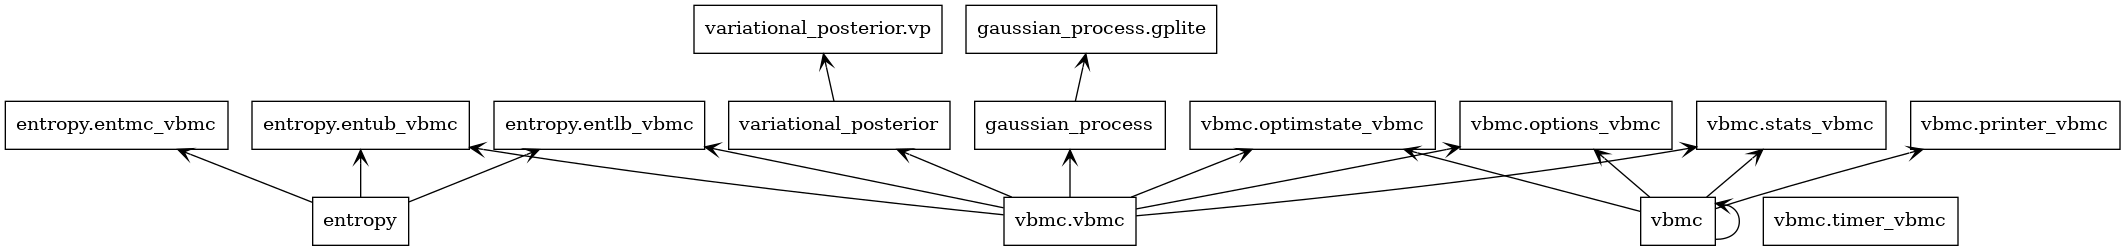
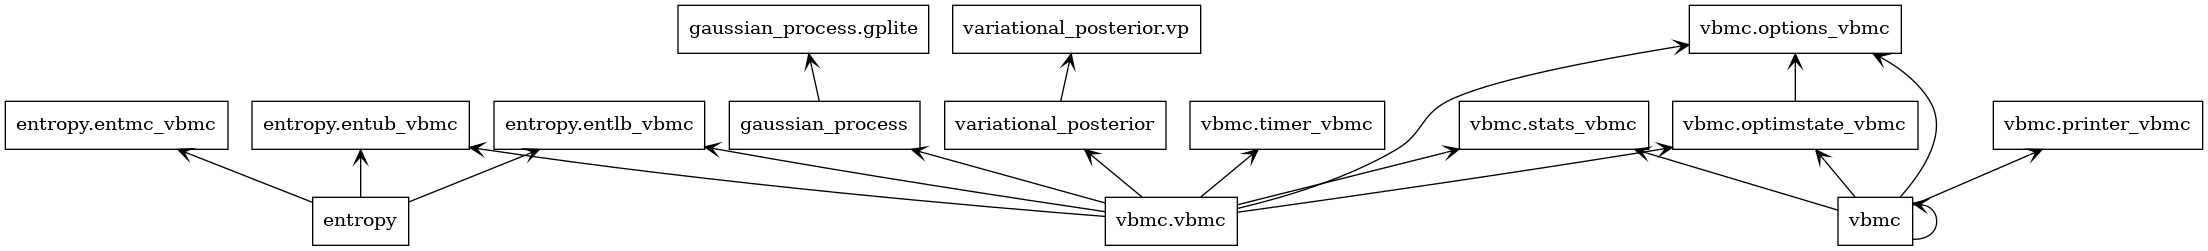
feat: initilize optimstate

diff --git a/initialCodePort/vbmc/options_vbmc.py b/initialCodePort/vbmc/options_vbmc.py
@@ -12,7 +12,7 @@ class Options_VBMC(object):
     Plot                    = None #'off         % Plot marginals of variational posterior at each iteration';
     MaxIter                 = None #'50*(2+nvars)% Max number of iterations';
     MaxFunEvals             = None #50*(2+nvars) % Max number of target fcn evals';
-    FunEvalsPerIter         = None #5            % Number of target fcn evals per iteration';
+    FunEvalsPerIter         = 5    #5            % Number of target fcn evals per iteration';
     TolStableCount          = None #60           % Required stable fcn evals for termination';
     RetryMaxFunEvals        = None #0            % Max number of target fcn evals on retry (0 = no retry)';
     MinFinalComponents      = None #50           % Number of variational components to refine posterior at termination';
@@ -30,7 +30,7 @@ class Options_VBMC(object):
     FunEvalStart            = None #max(D,10)    % Number of initial target fcn evals';
     SGDStepSize             = None #0.005        % Base step size for stochastic gradient descent';
     SkipActiveSamplingAfterWarmup  = None #no    % Skip active sampling the first iteration after warmup';
-    RankCriterion           = None #yes          % Use ranking criterion to pick best non-converged solution';
+    RankCriterion           = True #yes          % Use ranking criterion to pick best non-converged solution';
     TolStableEntropyIters   = None #6            % Required stable iterations to switch entropy approximation';
     VariableMeans           = None #yes          % Use variable component means for variational posterior';
     VariableWeights         = None #yes          % Use variable mixture weight for variational posterior';
@@ -43,7 +43,7 @@ class Options_VBMC(object):
     ProposalFcn             = None #[]           % Weighted proposal fcn for uncertainty search';
     NonlinearScaling   = None #on                % Automatic nonlinear rescaling of variables';
     SearchAcqFcn       = None #@acqf_vbmc        % Fast search acquisition fcn(s)';
-    NSsearch           = None #2^13              % Samples for fast acquisition fcn eval per new point';
+    NSsearch           = 2**13 #2^13              % Samples for fast acquisition fcn eval per new point';
     NSent              = None #@(K) 100*K.^(2/3) % Total samples for Monte Carlo approx. of the entropy';
     NSentFast          = None #0                 % Total samples for preliminary Monte Carlo approx. of the entropy';
     NSentFine          = None #@(K) 2^12*K       % Total samples for refined Monte Carlo approx. of the entropy';
@@ -54,8 +54,8 @@ class Options_VBMC(object):
     NSentFastActive    = None #0                 % Total samples for preliminary Monte Carlo approx. of the entropy (active sampling)';
     NSentFineActive    = None #@(K) 200*K        % Total samples for refined Monte Carlo approx. of the entropy (active sampling)';
     NSelbo             = None #@(K) 50*K         % Samples for fast approximation of the ELBO';
-    NSelboIncr         = None #0.1               % Multiplier to samples for fast approx. of ELBO for incremental iterations';
-    ElboStarts         = None #2                 % Starting points to refine optimization of the ELBO';
+    NSelboIncr         = 0.1  #0.1               % Multiplier to samples for fast approx. of ELBO for incremental iterations';
+    ElboStarts         = 2    #2                 % Starting points to refine optimization of the ELBO';
     NSgpMax            = None #80                % Max GP hyperparameter samples (decreases with training points)';
     NSgpMaxWarmup      = None #8                 % Max GP hyperparameter samples during warmup';
     NSgpMaxMain        = None #Inf               % Max GP hyperparameter samples during main algorithm';
@@ -63,7 +63,7 @@ class Options_VBMC(object):
     WarmupCheckMax     = None #yes               % Also check for max fcn value improvement before stopping warmup';
     StableGPSampling   = None #200 + 10*nvars    % Force stable GP hyperparameter sampling (reduce samples or start optimizing)';
     StableGPvpK        = None #Inf               % Force stable GP hyperparameter sampling after reaching this number of components';
-    StableGPSamples    = None #0                 % Number of GP samples when GP is stable (0 = optimize)';
+    StableGPSamples    = 0    #0                 % Number of GP samples when GP is stable (0 = optimize)';
     GPSampleThin       = None #5                 % Thinning for GP hyperparameter sampling';
     GPTrainNinit       = None #1024              % Initial design points for GP hyperparameter training';
     GPTrainNinitFinal  = None #64                % Final design points for GP hyperparameter training';
@@ -93,7 +93,7 @@ class Options_VBMC(object):
     TolStableWarmup    = None #15                % Number of stable fcn evals for stopping warmup';
     VariationalSampler = None #malasample        % MCMC sampler for variational posteriors';
     TolImprovement     = None #0.01              % Required ELCBO improvement per fcn eval before termination';
-    KLgauss            = None #yes               % Use Gaussian approximation for symmetrized KL-divergence b\w iters';
+    KLgauss            = True #yes               % Use Gaussian approximation for symmetrized KL-divergence b\w iters';
     TrueMean           = None #[]                % True mean of the target density (for debugging)';
     TrueCov            = None #[]                % True covariance of the target density (for debugging)';
     MinFunEvals        = None #5*nvars           % Min number of fcn evals';
@@ -103,7 +103,7 @@ class Options_VBMC(object):
     HPDSearchFrac      = None #0                 % Fraction of search points from multivariate normal fitted to HPD points';
     BoxSearchFrac      = None #0.25              % Fraction of search points from uniform random box based on training inputs';
     SearchCacheFrac    = None #0                 % Fraction of search points from previous iterations';
-    AlwaysRefitVarPost = None #no                % Always fully refit variational posterior';
+    AlwaysRefitVarPost = False #no                % Always fully refit variational posterior';
     Warmup             = None #on                % Perform warm-up stage';
     WarmupOptions      = None #[]                % Special OPTIONS struct for warmup stage';
     StopWarmupThresh   = None #0.2               % Stop warm-up when ELCBO increase below threshold (per fcn eval)';
@@ -114,7 +114,7 @@ class Options_VBMC(object):
     SearchCMAESVPInit  = None #yes               % Initialize CMA-ES search SIGMA from variational posterior';
     SearchCMAESbest    = None #no                % Take bestever solution from CMA-ES search';
     SearchMaxFunEvals  = None #500*(nvars+2)     % Max number of acquisition fcn evaluations during search';
-    MomentsRunWeight   = None #0.9               % Weight of previous trials (per trial) for running avg of variational posterior moments';
+    MomentsRunWeight   = 0.9  #0.9               % Weight of previous trials (per trial) for running avg of variational posterior moments';
     GPRetrainThreshold = None #1                 % Upper threshold on reliability index for full retraining of GP hyperparameters';
     ELCBOmidpoint      = None #on                % Compute full ELCBO also at best midpoint';
     GPSampleWidths     = None #5                 % Multiplier to widths from previous posterior for GP sampling (Inf = do not use previous widths)';
@@ -124,15 +124,15 @@ class Options_VBMC(object):
     GPHypSampler       = None #slicesample       % MCMC sampler for GP hyperparameters';
     CovSampleThresh    = None #10                % Switch to covariance sampling below this threshold of stability index';
     DetEntTolOpt       = None #1e-3              % Optimality tolerance for optimization of deterministic entropy';
-    EntropySwitch      = None #off               % Switch from deterministic entropy to stochastic entropy when reaching stability';
-    EntropyForceSwitch = None #0.8               % Force switch to stochastic entropy at this fraction of total fcn evals';
+    EntropySwitch      = False #off              % Switch from deterministic entropy to stochastic entropy when reaching stability';
+    EntropyForceSwitch = 0.8 #0.8                % Force switch to stochastic entropy at this fraction of total fcn evals';
     DetEntropyAlpha    = None #0                 % Alpha value for lower/upper deterministic entropy interpolation';
     UpdateRandomAlpha  = None #no                % Randomize deterministic entropy alpha during active sample updates';
     AdaptiveEntropyAlpha = None #no              % Online adaptation of alpha value for lower/upper deterministic entropy interpolation';
     DetEntropyMinD     = None #5                 % Start with deterministic entropy only with this number of vars or more';
     TolConLoss         = None #0.01              % Fractional tolerance for constraint violation of variational parameters';
-    BestSafeSD         = None #5                 % SD multiplier of ELCBO for computing best variational solution';
-    BestFracBack       = None #0.25              % When computing best solution, lacking stability go back up to this fraction of iterations';
+    BestSafeSD         = 5    #5                 % SD multiplier of ELCBO for computing best variational solution';
+    BestFracBack       = 0.25 #0.25              % When computing best solution, lacking stability go back up to this fraction of iterations';
     TolWeight          = None #1e-2              % Threshold mixture component weight for pruning';
     PruningThresholdMultiplier = None #@(K) 1/sqrt(K)   % Multiplier to threshold for pruning mixture weights';
     AnnealedGPMean     = None #@(N,NMAX) 0       % Annealing for hyperprior width of GP negative quadratic mean';
@@ -150,7 +150,7 @@ class Options_VBMC(object):
     OutwarpThreshMult  = None #1.25              % Output warping threshold multiplier when failed sub-threshold check';
     OutwarpThreshTol   = None #0.8               % Output warping base threshold tolerance (fraction of current threshold)';
     Temperature        = None #1                 % Temperature for posterior tempering (allowed values T = 1,2,3,4)';
-    SeparateSearchGP   = None #no                % Use separate GP with constant mean for active search';
+    SeparateSearchGP   = False #no               % Use separate GP with constant mean for active search';
     NoiseShaping       = None #no                % Discount observations from from extremely low-density regions';
     NoiseShapingThreshold = None #10*nvars       % Threshold from max observed value to start discounting';
     NoiseShapingFactor = None #0.05              % Proportionality factor of added noise wrt distance from threshold';
@@ -175,7 +175,7 @@ class Options_VBMC(object):
     ActiveSearchBound  = None #2                  % Active search bound multiplier';
     IntegrateGPMean    = None #no                   % Try integrating GP mean function';
     TolBoundX          = None #1e-5              % Tolerance on closeness to bound constraints (fraction of total range)';
-    RecomputeLCBmax    = None #yes              % Recompute LCB max for each iteration based on current GP estimate';
+    RecomputeLCBmax    = True #yes              % Recompute LCB max for each iteration based on current GP estimate';
     BoundedTransform   = None #logit            % Input transform for bounded variables';
     DoubleGP           = None #no                % Use double GP';
     WarpEveryIters     = None #5                 % Warp every this number of iterations';
@@ -196,13 +196,22 @@ class Options_VBMC(object):
     ELCBOWeight        = None #0                 % Uncertainty weight during ELCBO optimization';
     VarParamsBack      = None #0                 % Check variational posteriors back to these previous iterations';
     AltMCEntropy       = None #no                % Use alternative Monte Carlo computation for the entropy';
-    VarActiveSample    = None #no                % Variational active sampling';
+    VarActiveSample    = False #no               % Variational active sampling';
     FeatureTest        = None #no                % Test a new experimental feature';
-    BOWarmup           = None #no                % Bayesian-optimization-like warmup stage';
+    BOWarmup           = False #no               % Bayesian-optimization-like warmup stage';
     gpOutwarpFun       = None #[]                % GP default output warping function';
 
-def _validateOptions():
+def _validateOptions(self):
     '''
     We need the functionality to validate the options
     '''
+    if self.Temperature not in range(5):
+        print('vbmc:PosterioTemperature: OPTIONS.Temperature should be a small positive integer (allowed T = 1,2,3,4).')
+        exit(1)
+    pass
+
+def _initializeOptions(nvars, D, K):
+    """
+    Either initilize Options once or as a property
+    """
     pass

diff --git a/initialCodePort/vbmc/optimstate_vbmc.py b/initialCodePort/vbmc/optimstate_vbmc.py
@@ -1,23 +1,172 @@
+from .options_vbmc import Options_VBMC
+
+
 class OptimState(object):
     """
     Contains the current state of the VMBC algorithm
     """
 
-    def __init__(self):
+    def __init__(self, options: Options_VBMC, K, LB, UB, PLB, PUB) -> None:
+
+        nvars = size(LB, 2)
+
+        # Integer variables
+        self.integervars = false(1, nvars)
+        # if options.IntegerVars is not None:
+        #     self.integervars(options.IntegerVars) = True
+        #     for d = find(optimState.integervars)
+        # if (~isfinite(LB(d)) && floor(LB(d)) ~= 0.5) || ...
+        #         (~isfinite(UB(d)) && floor(UB(d)) ~= 0.5)
+        #         error('Hard bounds of integer variables need to be set at +/- 0.5 points from their boundary values (e.g., -0.5 and 10.5 for a variable that takes values from 0 to 10).');
+
+        self.LB = LB
+        self.UB = UB
+        self.PLB = PLB
+        self.PUB = PUB
+
+        # iteration number
+        self.iter: int = 0
+
+        # Estimate of GP observation noise around the high posterior density region
+        self.sn2hpd: float = float("inf")
+
+        # Fully recompute variational posterior
+        self.RecomputeVarPost: bool = True
+
+        # When was the last warping action performed (number of training inputs)
+        self.LastWarping: float = float("-inf")
+
+        # Number of warpings performed
+        self.WarpingCount: int = 0
+
+        # When GP hyperparameter sampling is switched with optimization
+        if options.NSgpMax > 0:
+            self.StopSampling: float = 0
+        else:
+            self.StopSampling: float = float("inf")
+
+        # Fully recompute variational posterior
+        self.RecomputeVarPost: bool = True
+
+        # Start with warm-up?
+        self.Warmup: bool = options.Warmup
+
+        if self.Warmup:
+            self.LastWarmup: float = float("inf")
+        else:
+            self.LastWarmup: float = 0
+
+        # Number of stable function evaluations during warmup with small increment
+        self.WarmupStableCount: int = 0
+
+        # Proposal function for search
+        if options.ProposalFcn is None:
+            self.ProposalFcn = (
+                None  # @(x) proposal_vbmc(x,optimState.PLB,optimState.PUB)
+            )
+        else:
+            self.ProposalFcn = options.ProposalFcn
+
+        # Quality of the variational posterior
+        self.R: float = float("inf")
+
+        # Start with adaptive sampling
+        self.SkipActiveSampling = False
+
+        # Running mean and covariance of variational posterior in transformed space
+        self.RunMean = []
+        self.RunCov = []
+
+        # Last time running average was updated
+        self.LastRunAvg: float = float("nan")
+
+        # Current number of components for variational posterior
+        self.vpK: int = K
+
+        # Number of variational components pruned in last iteration
+        self.pruned: int = 0
+
+        # Need to switch from deterministic entropy to stochastic entropy
+        self.EntropySwitch: bool = options.EntropySwitch
+
+        # Only use deterministic entropy if NVARS larger than a fixed number
+        if nvars < options.DetEntropyMinD:
+            self.EntropySwitch: bool = False
+
+        # Tolerance threshold on GP variance (used by some acquisition fcns)
+        self.TolGPVar = options.TolGPVar
+
+        # Copy maximum number of fcn. evaluations, used by some acquisition fcns.
+        self.MaxFunEvals = options.MaxFunEvals
+
+        # By default, apply variance-based regularization to acquisition functions
+        self.VarianceRegularizedAcqFcn: bool = True
+
+        # Setup search cache
+        self.SearchCache = []
+
+        # Set uncertainty handling level
+        # (0: none; 1: unkown noise level; 2: user-provided noise)
+        if options.SpecifyTargetNoise:
+            self.UncertaintyHandlingLevel: int = 2
+        elif options.UncertaintyHandling:
+            self.UncertaintyHandlingLevel: int = 1
+        else:
+            self.UncertaintyHandlingLevel: int = 0
+
+        # Empty hedge struct for acquisition functions
+        if options.AcqHedge:
+            self.hedge = []
+
+        # List of points at the end of each iteration
+        self.iterList.u = []
+        self.iterList.fval = []
+        self.iterList.fsd = []
+        self.iterList.fhyp = []
+
+        self.delta = options.Bandwidth * (self.PUB - self.PLB)
+
+        # Posterior tempering temperature
+        if options.Temperature is not None:
+            self.temperature: int = options.Temperature
+        else:
+            self.temperature: int = 1
+
+        # Deterministic entropy approximation lower/upper factor
+        self.entropy_alpha = options.DetEntropyAlpha
+
+        # Repository of variational solutions
+        self.vp_repo = []
+
+        # Repeated measurement streak
+        self.RepeatedObservationsStreak = 0
+
+        # List of data trimming events
+        self.DataTrimList = []
+
+        # Expanding search bounds
+        prange = self.PUB - self.PLB
+        self.LB_search = max(
+            self.PLB - prange * options.ActiveSearchBound, self.LB
+        )
+        self.UB_search = min(
+            self.PUB + prange * options.ActiveSearchBound, self.UB
+        )
+
+        # Does the starting cache contain function values?
+        self.Cache.active: bool = (
+            None  # any(isfinite(optimState.Cache.y_orig))
+        )
+
         self.acqInfo = None
 
-        self.Cache.active = None
         self.cachecount = None
 
-        self.entropy_alpha = None
         self.funccount = None
         self.gpMeanfun = None
         self.gpOutwarpfun = None
         self.H = None
-        self.hedge = None
         self.hypstruct = None
-        self.iter = None
-        self.LastRunAvg = None
 
         self.lcbmax = None
         self.lcbmax_vec = None
@@ -26,20 +175,10 @@ class OptimState(object):
         self.Neff = None
         self.nevals = None
         self.OutwarpDelta = None
-        self.R = None
-        self.RecomputeVarPost = None
-        self.RunCov = None
-        self.RunMean = None
-        self.sn2hpd = None
-        self.StopSampling = None
 
         self.totalfunevaltime = None
         self.totaltime = None
 
-        self.UncertaintyHandlingLevel = None
-        self.vpK = None
-        self.vp_repo = None
-        self.Warmup = None
         self.Xn = None
         self.X_flag = None
         self.ymax = None
